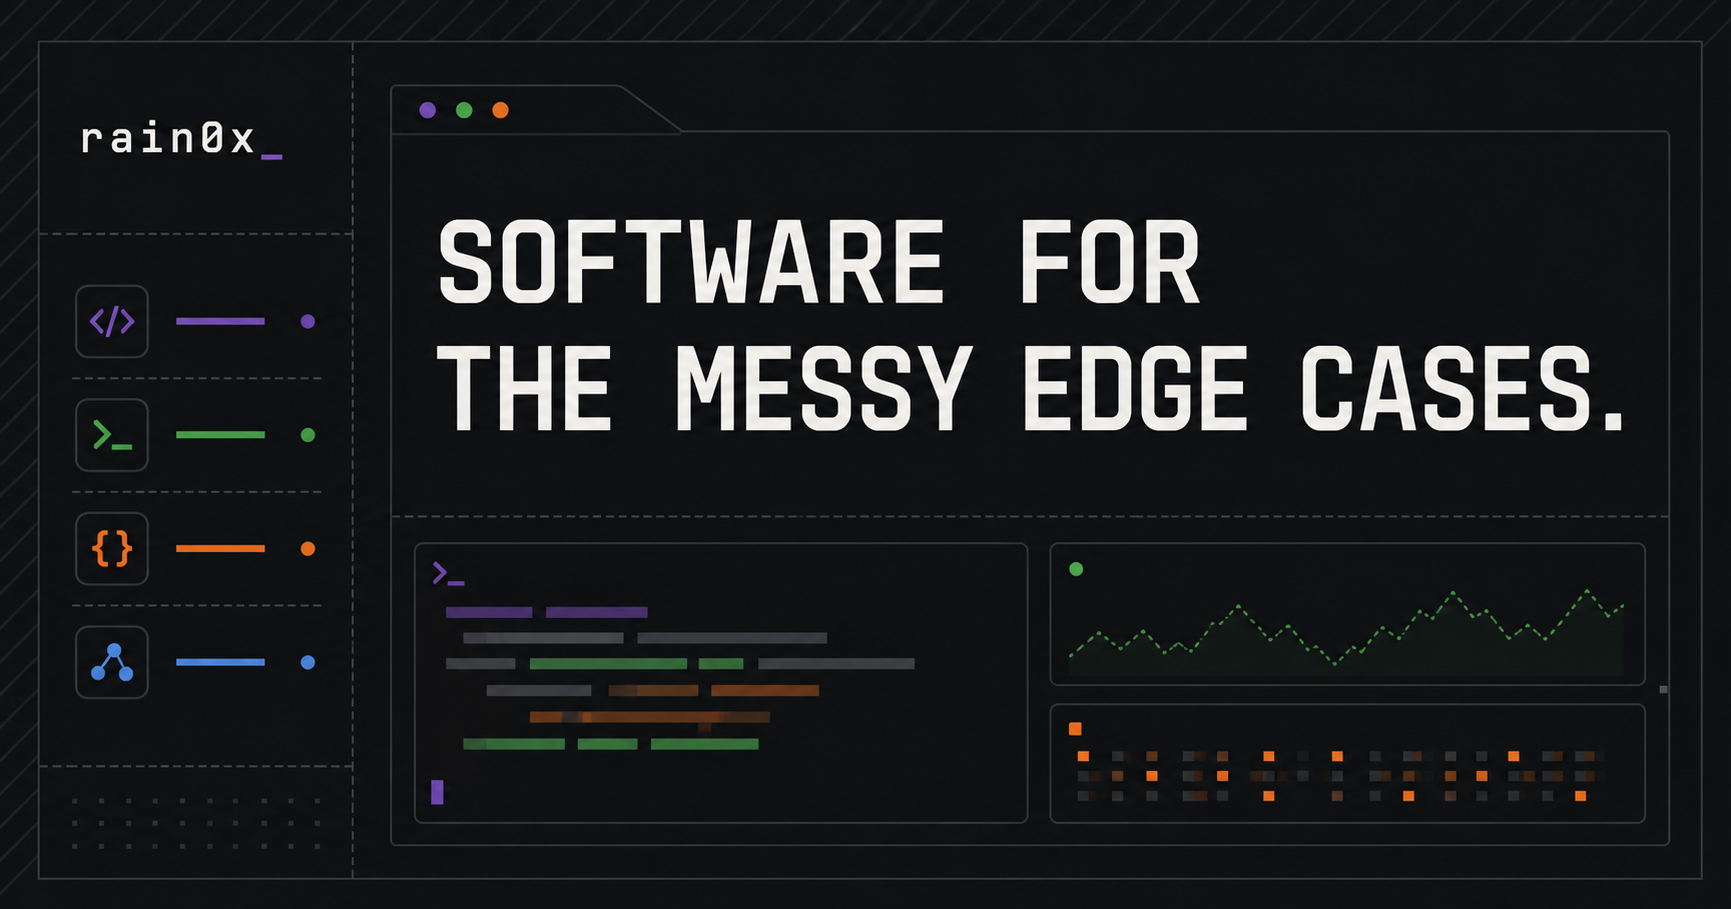
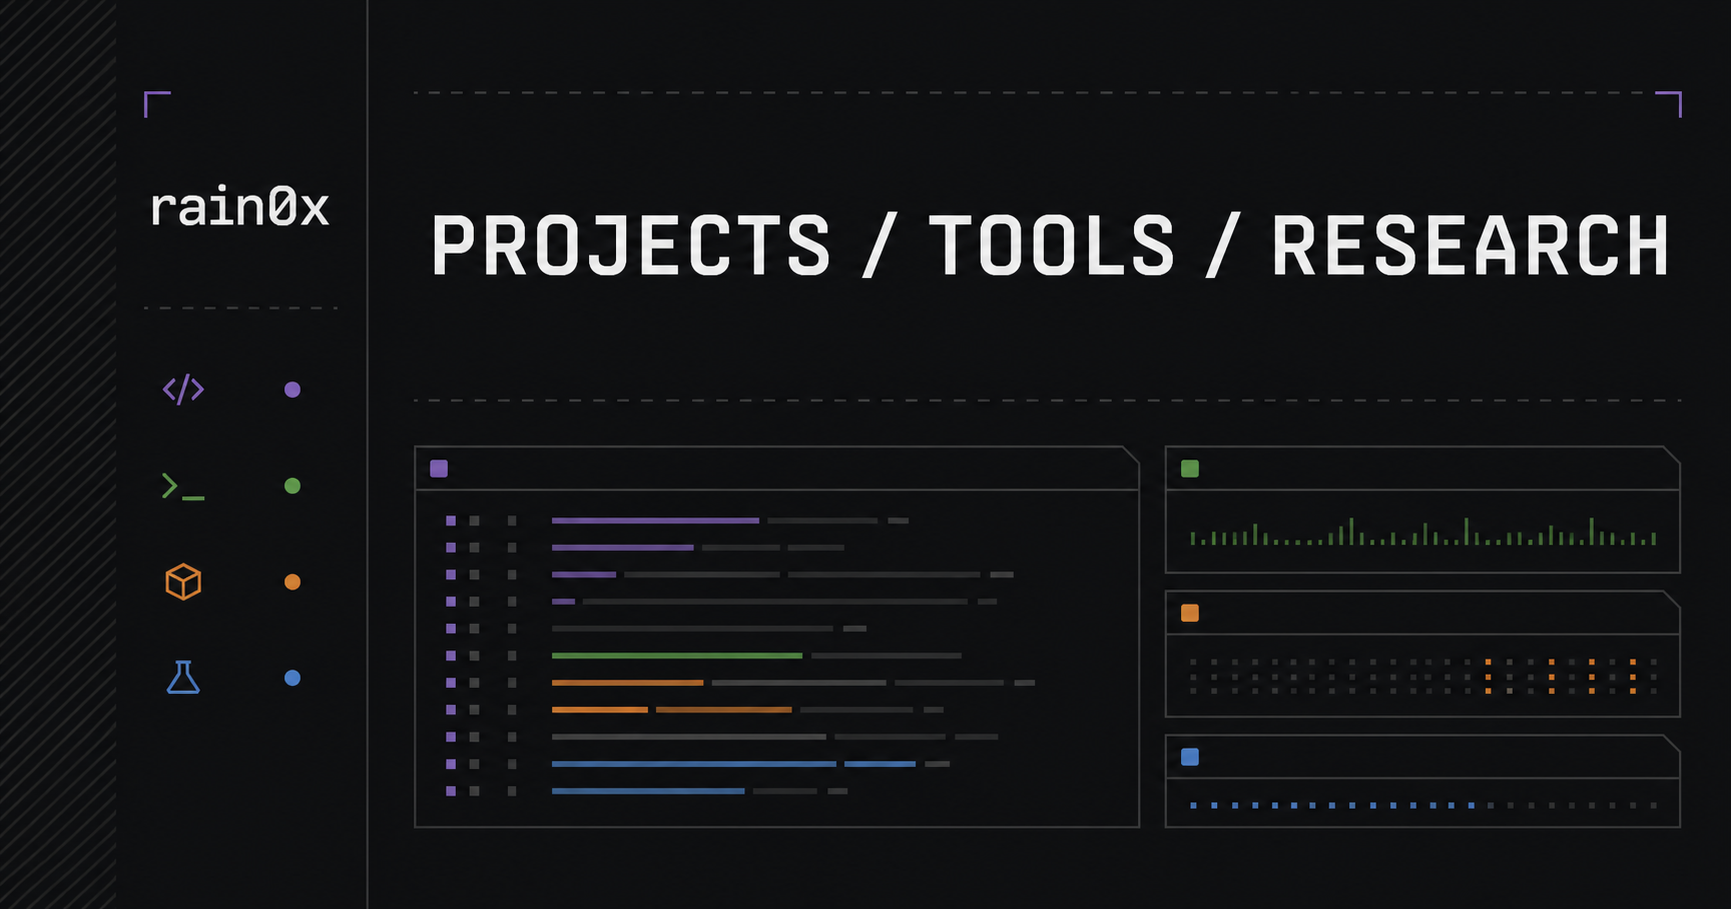
Replace portfolio tagline

diff --git a/index.html b/index.html
@@ -6,13 +6,13 @@
     <meta name="theme-color" content="#17181a">
     <meta name="description" content="rain0x — systems tooling, reverse engineering, low-level experiments, and software projects.">
     <meta property="og:title" content="rain0x — projects & research">
-    <meta property="og:description" content="Software for the messy edge cases: native tooling, recovery, telemetry, automation, and reverse engineering.">
+    <meta property="og:description" content="Native tooling, recovery, telemetry, automation, and reverse engineering.">
     <meta property="og:type" content="website">
     <meta property="og:url" content="https://rain0x.me">
     <meta property="og:image" content="https://rain0x.me/assets/og.png">
     <meta name="twitter:card" content="summary_large_image">
     <meta name="twitter:title" content="rain0x — projects & research">
-    <meta name="twitter:description" content="Software for the messy edge cases: native tooling, recovery, telemetry, automation, and reverse engineering.">
+    <meta name="twitter:description" content="Native tooling, recovery, telemetry, automation, and reverse engineering.">
     <meta name="twitter:image" content="https://rain0x.me/assets/og.png">
     <title>rain0x — Projects & Research</title>
     <link rel="icon" type="image/png" href="assets/rain-pfp.png">
@@ -41,7 +41,7 @@
 
         <div class="rail-intro">
           <p class="micro-label">Independent developer</p>
-          <h1>Software for the messy edge cases.</h1>
+          <h1>Projects, tools, and technical research.</h1>
           <p>I build practical tools around native systems, undocumented formats, live data, and everything that refuses to be simple.</p>
         </div>
 
